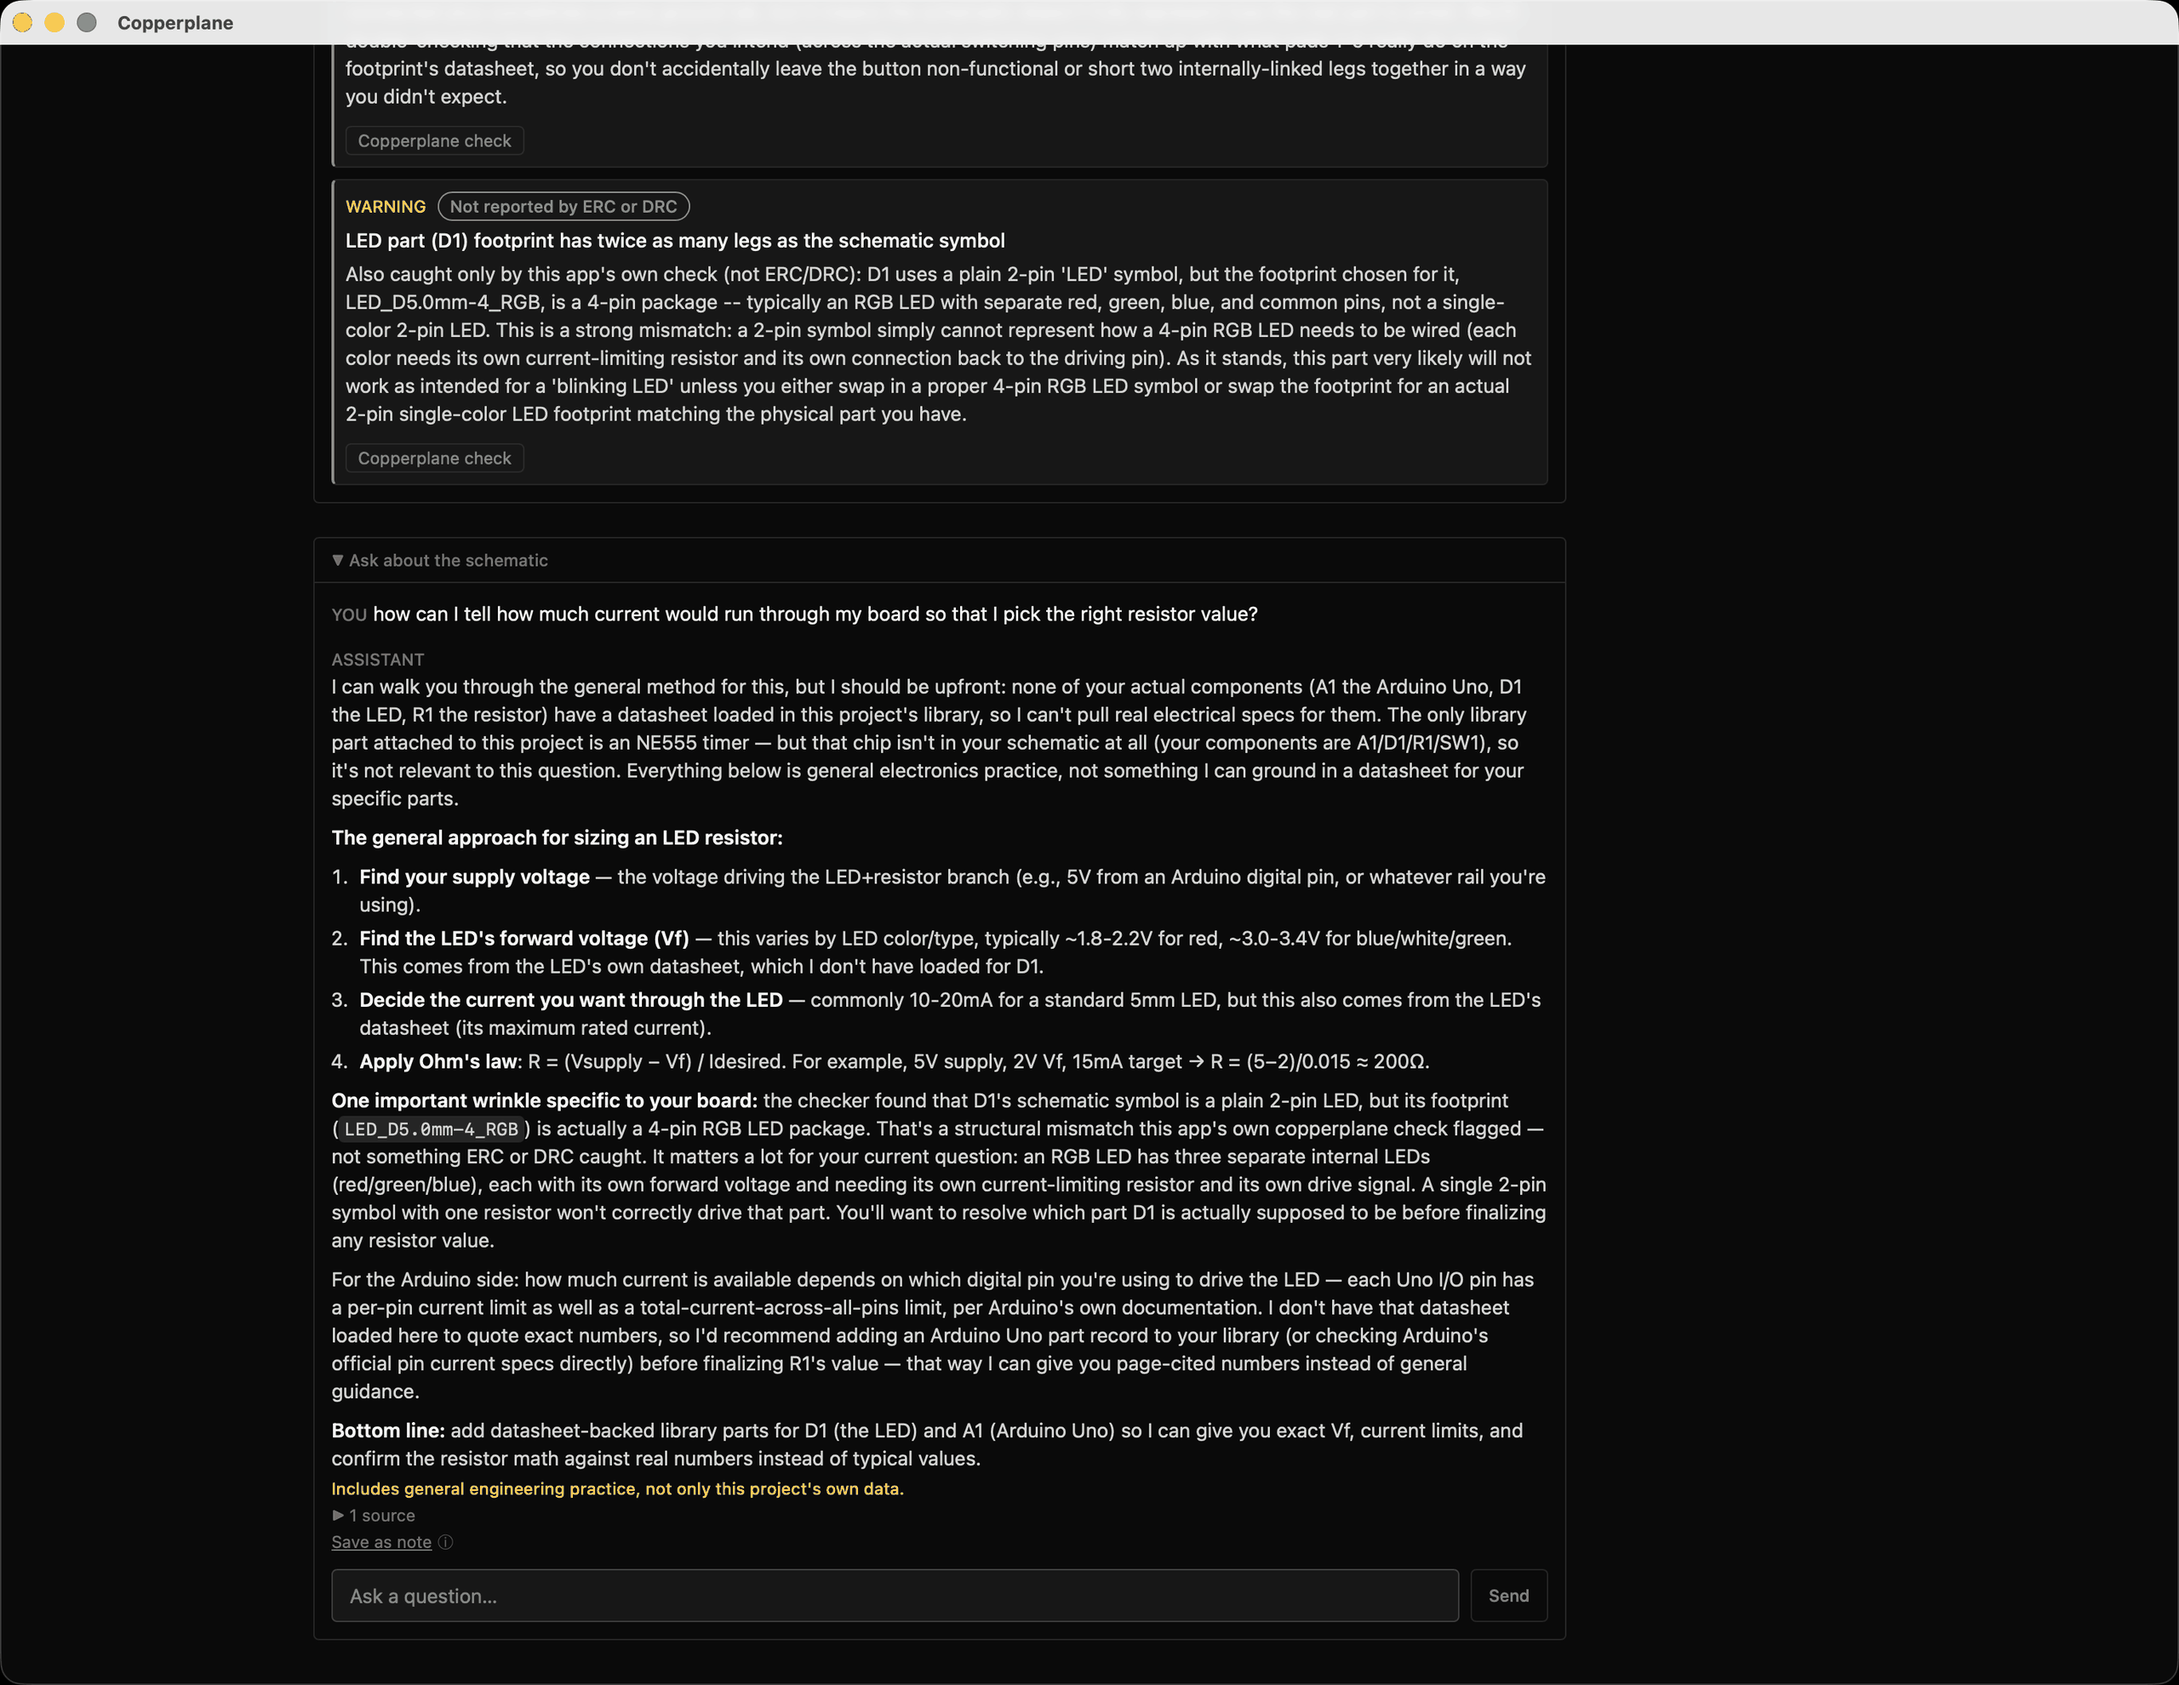
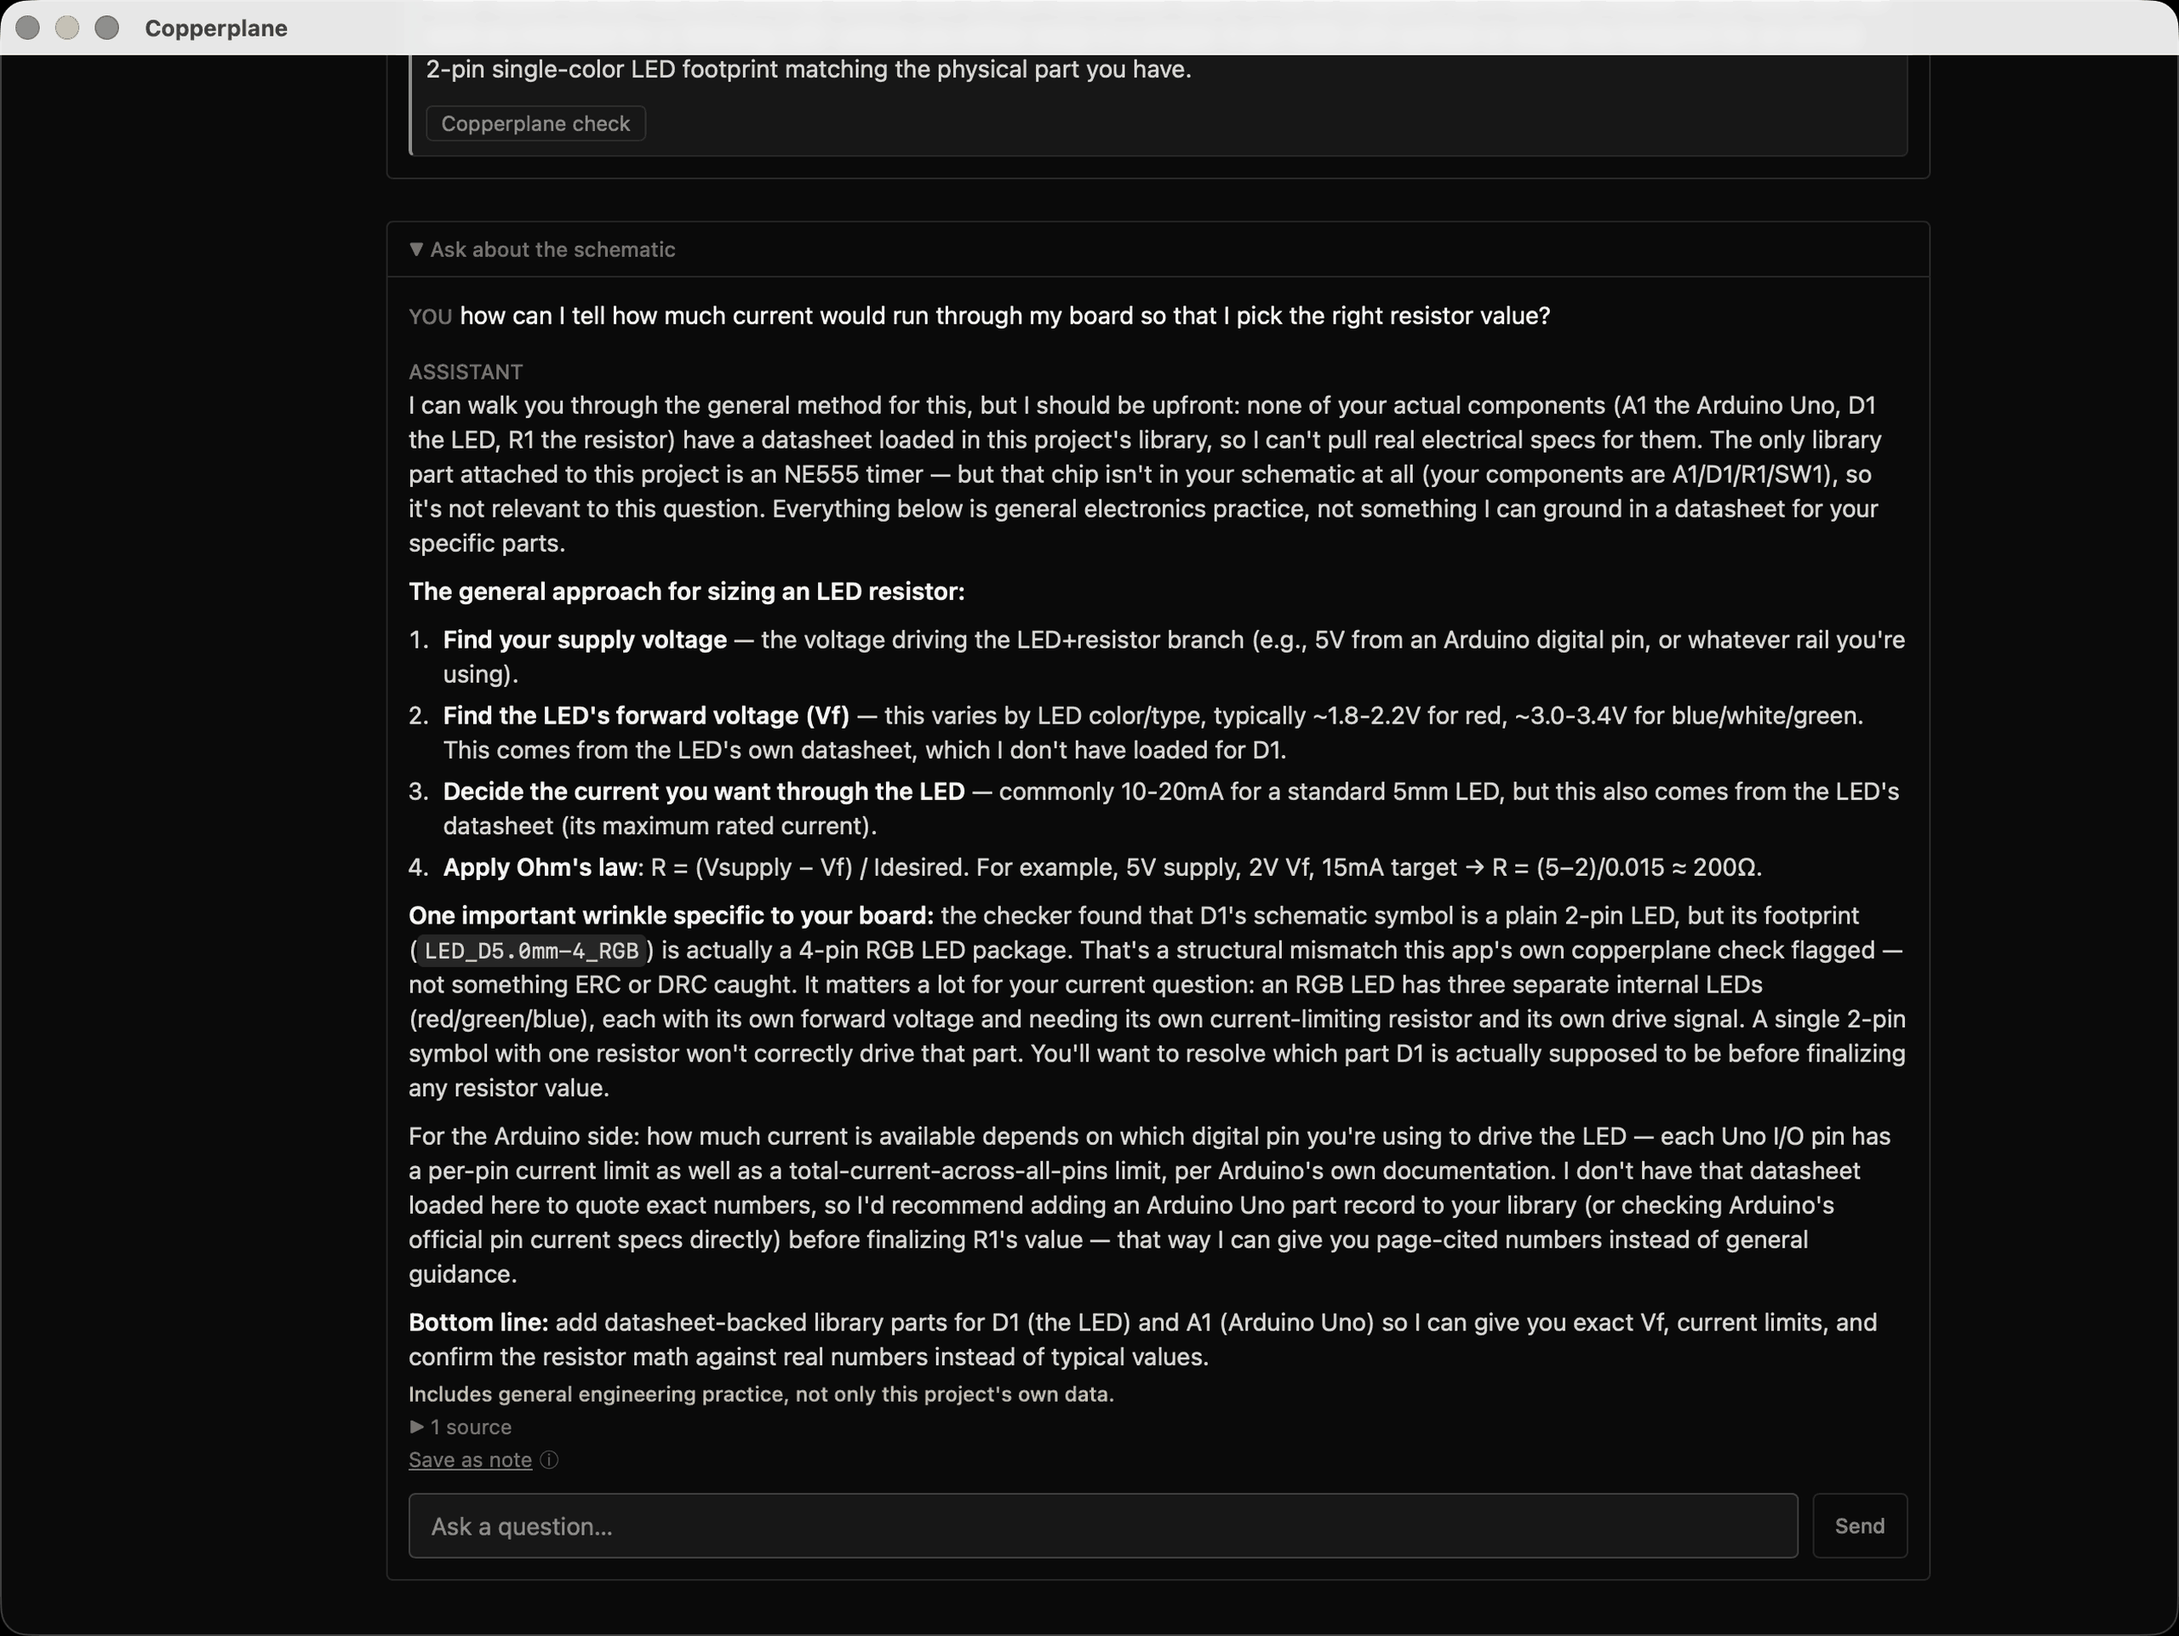
docs(SPEC-408): a better ask-the-agent shot, and a correction about Settings
The retaken ask-the-agent fits the whole answer in one window, including
the caveat line about general engineering practice and the source count.
It needs 48 colours to come in at 379KB rather than the 413KB the previous
one sat at, so the size exception this file carried is gone. Checked at 1:1
for banding, which a dark UI with light text tolerates far better than the
palette count suggests.

And a correction, recorded because I asserted it twice. I wrote that
SPEC-342 had moved the board-house library into Settings, and that
settings.png was therefore wrong about the screen's contents rather than
merely dated. It is not in Settings. HouseLibrary renders inside
FabricationProfile inside BoardAdvisor -- the PCB tab. My own contact sheet
showed "Board houses" under PCB and I wrote the opposite.

Settings.tsx last changed 2026-09-03 and ProviderConfigEditor on
2026-08-31, both before the capture, so nothing that screen renders has
moved since. settings.png is very likely still accurate and is no longer
listed as wrong.

diff --git a/docs/site/SCREENSHOTS.md b/docs/site/SCREENSHOTS.md
@@ -9,12 +9,18 @@ referenced from a page as `/copperplane/images/<name>.png`.
 **Seventeen of eighteen images are the 2026-09-11 re-shoot.** Two remain from 2026-09-04 because
 nothing in that session captured them, and they are named below rather than left to be discovered.
 
-### Still from 2026-09-04, and still wrong
+### Still from 2026-09-04
 
 | File | Why it was not replaced |
 | :--- | :--- |
-| `settings.png` | No Settings screen was captured. It also moved: `SPEC-342` put the board-house library there, so the old shot is wrong about what the screen contains, not merely dated. |
 | `new-project-review.png` | The wizard's steps 1-3 were captured; **step 4 of 4, "Reviewing your project"**, was not. That step is the shot — the wizard's own check pass, with parity, component count and the ERC/DRC counts. |
+| `settings.png` | Not captured, and **probably does not need to be**. `Settings.tsx` last changed 2026-09-03 and `ProviderConfigEditor` on 2026-08-31, both before the capture, so nothing that screen renders has moved since. Worth an eye before the next release; not a retake. |
+
+> **A correction, recorded because it was asserted twice.** An earlier version of this file said the
+> board-house library had moved into Settings and that `settings.png` was therefore wrong about the
+> screen's contents. **It is not in Settings.** `HouseLibrary` renders inside `FabricationProfile`,
+> which renders inside `BoardAdvisor` — the **PCB tab**. The contact sheet used to triage these shots
+> showed "Board houses" under the PCB tab, and the claim was written anyway.
 
 ### Never captured, and not yet referenced by any page
 
@@ -54,9 +60,10 @@ an hour.
     64 for `ask-the-agent`. Check the small grey body text at 1:1 for banding before accepting it;
     at 64 colours it was still crisp.
 
-`ask-the-agent.png` is **413KB**, over the 400KB below, and is the one exception. It is a very tall,
-very text-dense screen; 64 colours is as far as the palette goes before the text suffers, and the
-alternative is a narrower image than every other file here.
+`ask-the-agent.png` is the extreme case: a full agent answer, so nearly the whole frame is small
+text. Retaken 2026-09-12 with the answer fitting in one window, and it needs **48 colours** to come
+in at 379KB. Checked at 1:1 — the text is still crisp there, and a dark UI with light text has far
+fewer distinct colours than the palette count suggests.
 
 ## Dark theme, everywhere
 
